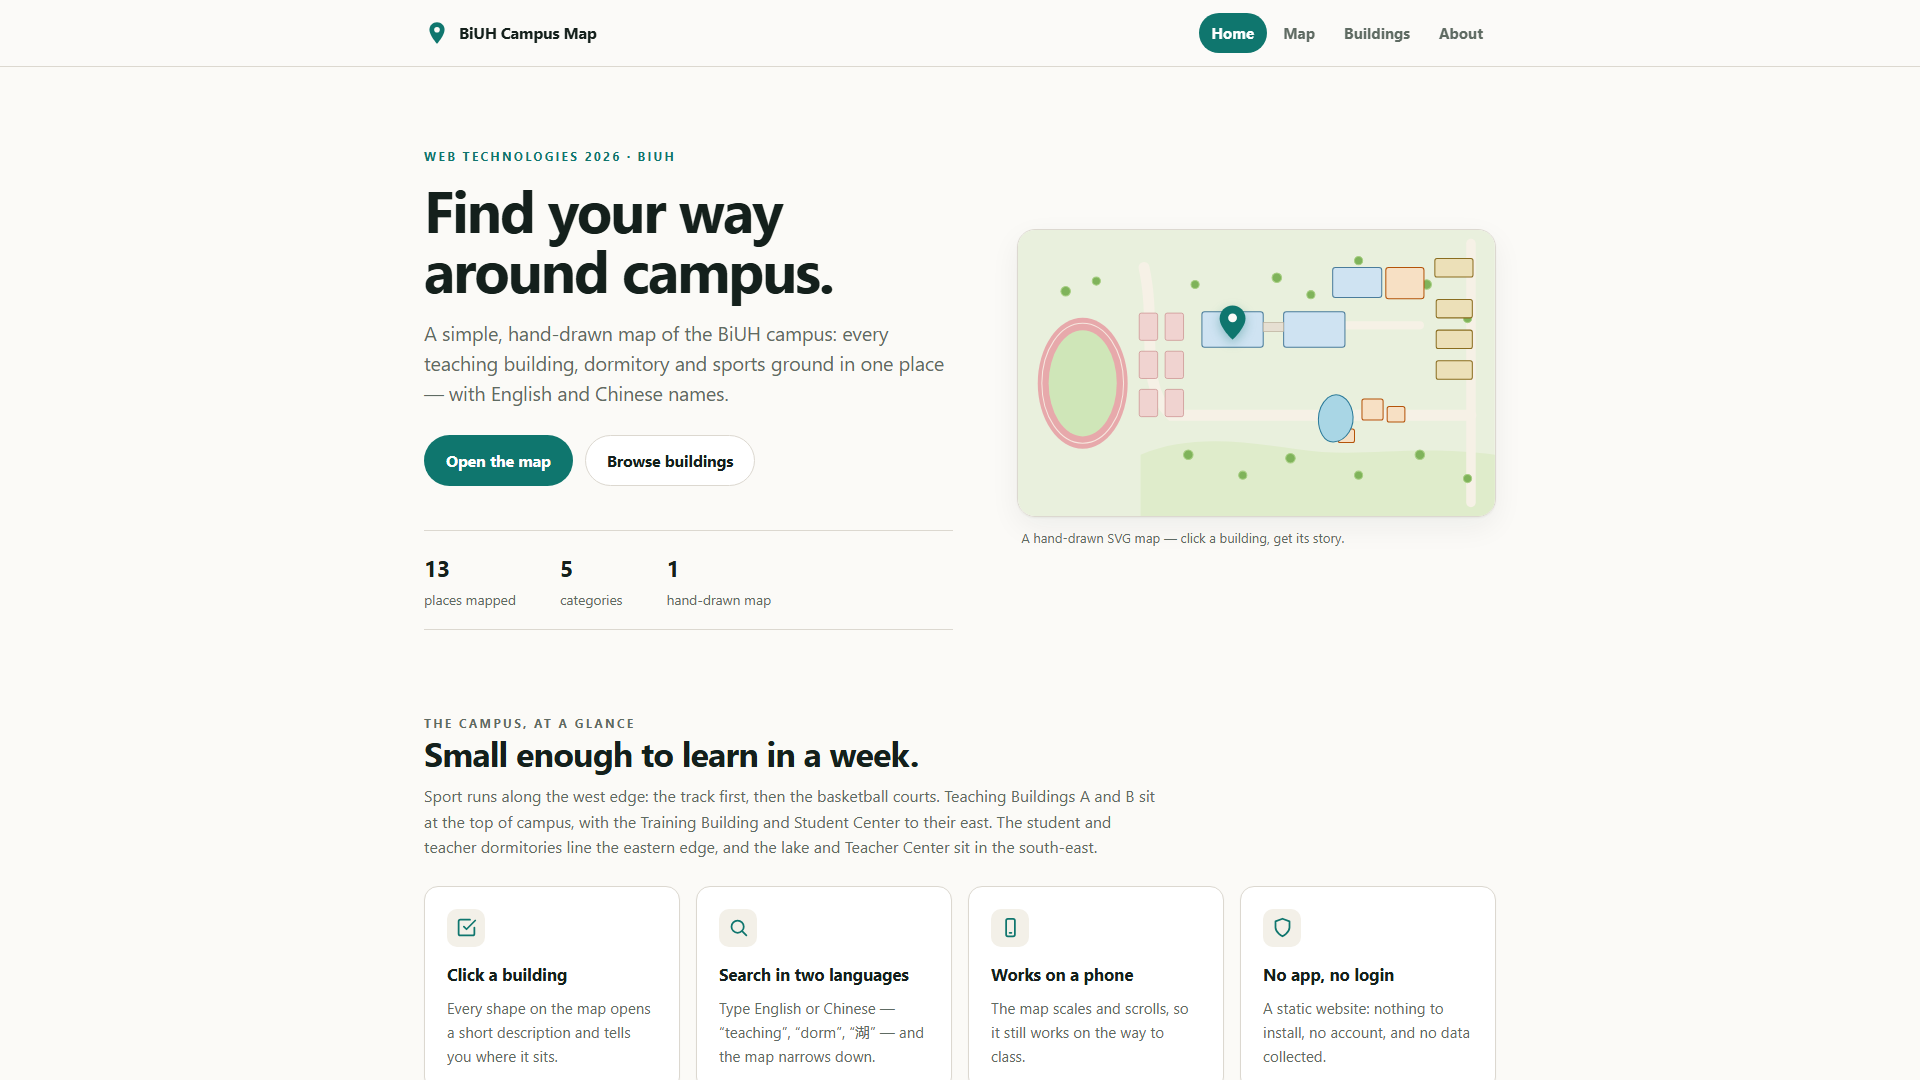
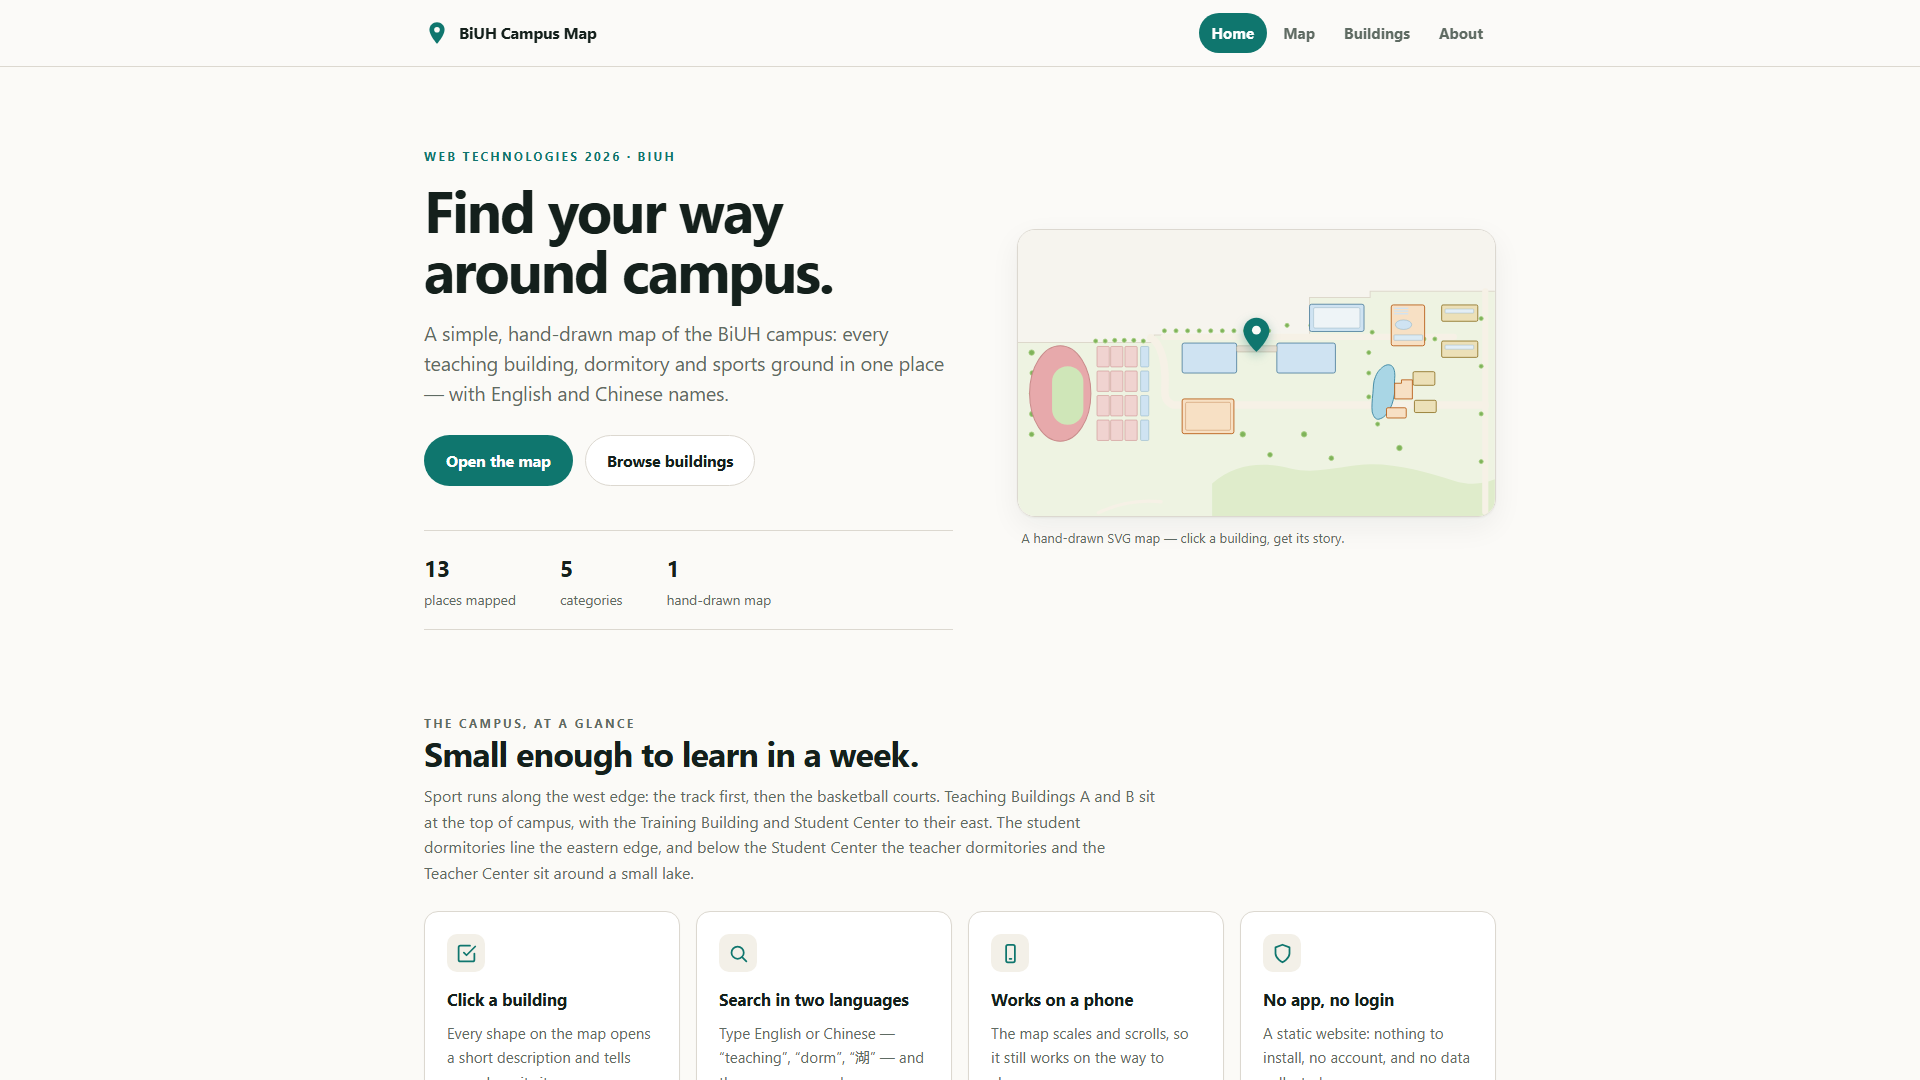
Match the home preview to the redrawn map
The hero illustration still showed the old layout, with the teacher
dormitories on the eastern edge. Redraw it at the same scale and
arrangement as the map page, and regenerate the screenshots with
device emulation so the mobile captures are the real 375 px layout.

diff --git a/index.html b/index.html
@@ -60,67 +60,124 @@
 
       <div class="hero-map">
         <svg viewBox="0 0 700 420" aria-hidden="true" focusable="false">
-          <rect width="700" height="420" fill="#e9f0dd"/>
-          <path d="M180 420V330C250 300 330 310 410 322C500 336 580 314 700 330V420Z" fill="#dfeccb"/>
+          <rect width="700" height="420" fill="#f6f4ee"/>
+          <path d="M0 165H200V154H428V99H517V90H700V420H0Z" fill="#eef3e2"/>
+          <path d="M0 165H200V154H428V99H517V90H700" fill="none" stroke="#ddd8cb" stroke-width="1.5"/>
+          <path d="M285 420V372C320 342 360 340 400 350C440 360 480 344 520 344C560 344 600 356 640 368C665 376 685 372 700 366V420Z" fill="#dfeccb"/>
 
           <g fill="none" stroke="#f6f1e6" stroke-linecap="round">
-            <path d="M185 55C205 145 175 225 225 272L665 272" stroke-width="16"/>
-            <path d="M665 20V400" stroke-width="14"/>
-            <path d="M430 140H590" stroke-width="12"/>
+            <path d="M195 158C212 168 216 200 216 218C216 240 212 250 228 257H686" stroke-width="11"/>
+            <path d="M214 157H640" stroke-width="9"/>
+            <path d="M686 90V414" stroke-width="9"/>
+            <path d="M118 415C150 400 180 396 210 399" stroke-width="5"/>
           </g>
 
           <g aria-hidden="true">
-            <circle cx="70" cy="90" r="7" fill="#7fb35a" stroke="#a8cf83" stroke-width="1.5"/>
-            <circle cx="115" cy="75" r="6" fill="#7fb35a" stroke="#a8cf83" stroke-width="1.5"/>
-            <circle cx="260" cy="80" r="6" fill="#7fb35a" stroke="#a8cf83" stroke-width="1.5"/>
-            <circle cx="380" cy="70" r="7" fill="#7fb35a" stroke="#a8cf83" stroke-width="1.5"/>
-            <circle cx="430" cy="95" r="6" fill="#7fb35a" stroke="#a8cf83" stroke-width="1.5"/>
-            <circle cx="500" cy="45" r="6" fill="#7fb35a" stroke="#a8cf83" stroke-width="1.5"/>
-            <circle cx="600" cy="80" r="7" fill="#7fb35a" stroke="#a8cf83" stroke-width="1.5"/>
-            <circle cx="660" cy="130" r="6" fill="#7fb35a" stroke="#a8cf83" stroke-width="1.5"/>
-            <circle cx="250" cy="330" r="7" fill="#7fb35a" stroke="#a8cf83" stroke-width="1.5"/>
-            <circle cx="330" cy="360" r="6" fill="#7fb35a" stroke="#a8cf83" stroke-width="1.5"/>
-            <circle cx="400" cy="335" r="7" fill="#7fb35a" stroke="#a8cf83" stroke-width="1.5"/>
-            <circle cx="500" cy="360" r="6" fill="#7fb35a" stroke="#a8cf83" stroke-width="1.5"/>
-            <circle cx="590" cy="330" r="7" fill="#7fb35a" stroke="#a8cf83" stroke-width="1.5"/>
-            <circle cx="660" cy="365" r="6" fill="#7fb35a" stroke="#a8cf83" stroke-width="1.5"/>
+            <circle cx="20" cy="180" r="4" fill="#7fb35a" stroke="#a8cf83" stroke-width="1.2"/>
+            <circle cx="21" cy="210" r="3.5" fill="#7fb35a" stroke="#a8cf83" stroke-width="1.2"/>
+            <circle cx="20" cy="240" r="3.5" fill="#7fb35a" stroke="#a8cf83" stroke-width="1.2"/>
+            <circle cx="21" cy="270" r="4" fill="#7fb35a" stroke="#a8cf83" stroke-width="1.2"/>
+            <circle cx="20" cy="300" r="3.5" fill="#7fb35a" stroke="#a8cf83" stroke-width="1.2"/>
+            <circle cx="114" cy="163" r="3" fill="#7fb35a" stroke="#a8cf83" stroke-width="1.2"/>
+            <circle cx="128" cy="163" r="3" fill="#7fb35a" stroke="#a8cf83" stroke-width="1.2"/>
+            <circle cx="142" cy="162" r="3" fill="#7fb35a" stroke="#a8cf83" stroke-width="1.2"/>
+            <circle cx="156" cy="162" r="3" fill="#7fb35a" stroke="#a8cf83" stroke-width="1.2"/>
+            <circle cx="170" cy="162" r="3" fill="#7fb35a" stroke="#a8cf83" stroke-width="1.2"/>
+            <circle cx="184" cy="163" r="3" fill="#7fb35a" stroke="#a8cf83" stroke-width="1.2"/>
+            <circle cx="215" cy="148" r="3" fill="#7fb35a" stroke="#a8cf83" stroke-width="1.2"/>
+            <circle cx="232" cy="148" r="3" fill="#7fb35a" stroke="#a8cf83" stroke-width="1.2"/>
+            <circle cx="249" cy="148" r="3" fill="#7fb35a" stroke="#a8cf83" stroke-width="1.2"/>
+            <circle cx="266" cy="148" r="3" fill="#7fb35a" stroke="#a8cf83" stroke-width="1.2"/>
+            <circle cx="283" cy="148" r="3" fill="#7fb35a" stroke="#a8cf83" stroke-width="1.2"/>
+            <circle cx="300" cy="148" r="3" fill="#7fb35a" stroke="#a8cf83" stroke-width="1.2"/>
+            <circle cx="317" cy="148" r="3" fill="#7fb35a" stroke="#a8cf83" stroke-width="1.2"/>
+            <circle cx="334" cy="148" r="3" fill="#7fb35a" stroke="#a8cf83" stroke-width="1.2"/>
+            <circle cx="351" cy="148" r="3" fill="#7fb35a" stroke="#a8cf83" stroke-width="1.2"/>
+            <circle cx="368" cy="148" r="3" fill="#7fb35a" stroke="#a8cf83" stroke-width="1.2"/>
+            <circle cx="395" cy="140" r="3" fill="#7fb35a" stroke="#a8cf83" stroke-width="1.2"/>
+            <circle cx="430" cy="140" r="3" fill="#7fb35a" stroke="#a8cf83" stroke-width="1.2"/>
+            <circle cx="465" cy="145" r="3" fill="#7fb35a" stroke="#a8cf83" stroke-width="1.2"/>
+            <circle cx="520" cy="150" r="3" fill="#7fb35a" stroke="#a8cf83" stroke-width="1.2"/>
+            <circle cx="596" cy="160" r="3" fill="#7fb35a" stroke="#a8cf83" stroke-width="1.2"/>
+            <circle cx="612" cy="160" r="3" fill="#7fb35a" stroke="#a8cf83" stroke-width="1.2"/>
+            <circle cx="515" cy="180" r="3" fill="#7fb35a" stroke="#a8cf83" stroke-width="1.2"/>
+            <circle cx="515" cy="210" r="3" fill="#7fb35a" stroke="#a8cf83" stroke-width="1.2"/>
+            <circle cx="515" cy="245" r="3" fill="#7fb35a" stroke="#a8cf83" stroke-width="1.2"/>
+            <circle cx="528" cy="285" r="3" fill="#7fb35a" stroke="#a8cf83" stroke-width="1.2"/>
+            <circle cx="330" cy="300" r="4" fill="#7fb35a" stroke="#a8cf83" stroke-width="1.2"/>
+            <circle cx="370" cy="330" r="3.5" fill="#7fb35a" stroke="#a8cf83" stroke-width="1.2"/>
+            <circle cx="420" cy="300" r="4" fill="#7fb35a" stroke="#a8cf83" stroke-width="1.2"/>
+            <circle cx="460" cy="335" r="3.5" fill="#7fb35a" stroke="#a8cf83" stroke-width="1.2"/>
+            <circle cx="560" cy="320" r="4" fill="#7fb35a" stroke="#a8cf83" stroke-width="1.2"/>
+            <circle cx="680" cy="130" r="3" fill="#7fb35a" stroke="#a8cf83" stroke-width="1.2"/>
+            <circle cx="680" cy="200" r="3" fill="#7fb35a" stroke="#a8cf83" stroke-width="1.2"/>
+            <circle cx="680" cy="270" r="3" fill="#7fb35a" stroke="#a8cf83" stroke-width="1.2"/>
+            <circle cx="680" cy="340" r="3" fill="#7fb35a" stroke="#a8cf83" stroke-width="1.2"/>
           </g>
 
-          <ellipse cx="95" cy="225" rx="66" ry="96" fill="#e7a9ab"/>
-          <ellipse cx="95" cy="225" rx="50" ry="78" fill="#cfe6b8"/>
-          <ellipse cx="95" cy="225" rx="60" ry="88" fill="none" stroke="#f6e7df" stroke-width="1.5"/>
+          <!-- sports field -->
+          <ellipse cx="62" cy="240" rx="45" ry="70" fill="#e7a9ab" stroke="#c98b8b" stroke-width="1.5"/>
+          <rect x="50" y="200" width="46" height="86" rx="23" fill="#cfe6b8"/>
 
-          <g fill="#f0d3d0" stroke="#c98b8b" stroke-width="1">
-            <rect x="178" y="122" width="27" height="40" rx="3"/>
-            <rect x="216" y="122" width="27" height="40" rx="3"/>
-            <rect x="178" y="178" width="27" height="40" rx="3"/>
-            <rect x="216" y="178" width="27" height="40" rx="3"/>
-            <rect x="178" y="234" width="27" height="40" rx="3"/>
-            <rect x="216" y="234" width="27" height="40" rx="3"/>
+          <!-- basketball courts -->
+          <g fill="#f0d3d0" stroke="#c98b8b" stroke-width="0.8">
+            <rect x="116" y="171" width="18" height="30" rx="1.5"/>
+            <rect x="136" y="171" width="18" height="30" rx="1.5"/>
+            <rect x="157" y="171" width="18" height="30" rx="1.5"/>
+            <rect x="116" y="207" width="18" height="30" rx="1.5"/>
+            <rect x="136" y="207" width="18" height="30" rx="1.5"/>
+            <rect x="157" y="207" width="18" height="30" rx="1.5"/>
+            <rect x="116" y="243" width="18" height="30" rx="1.5"/>
+            <rect x="136" y="243" width="18" height="30" rx="1.5"/>
+            <rect x="157" y="243" width="18" height="30" rx="1.5"/>
+            <rect x="116" y="279" width="18" height="30" rx="1.5"/>
+            <rect x="136" y="279" width="18" height="30" rx="1.5"/>
+            <rect x="157" y="279" width="18" height="30" rx="1.5"/>
+          </g>
+          <g fill="#cfe3f2" stroke="#8fb3c8" stroke-width="0.8">
+            <rect x="180" y="171" width="12" height="30" rx="1.5"/>
+            <rect x="180" y="207" width="12" height="30" rx="1.5"/>
+            <rect x="180" y="243" width="12" height="30" rx="1.5"/>
+            <rect x="180" y="279" width="12" height="30" rx="1.5"/>
           </g>
 
-          <rect x="270" y="120" width="90" height="52" rx="4" fill="#cfe3f2" stroke="#4a7c9b" stroke-width="1.5"/>
-          <rect x="390" y="120" width="90" height="52" rx="4" fill="#cfe3f2" stroke="#4a7c9b" stroke-width="1.5"/>
-          <rect x="360" y="136" width="30" height="13" fill="#e6dfd2" stroke="#b9ae99" stroke-width="1"/>
-          <rect x="462" y="55" width="72" height="44" rx="4" fill="#cfe3f2" stroke="#4a7c9b" stroke-width="1.5"/>
-          <rect x="540" y="55" width="56" height="46" rx="4" fill="#f7e0c4" stroke="#b45309" stroke-width="1.5"/>
+          <!-- welcome center -->
+          <rect x="241" y="248" width="76" height="51" rx="3" fill="#f7e0c4" stroke="#b45309" stroke-width="1.2"/>
+          <rect x="246" y="253" width="66" height="41" rx="2" fill="none" stroke="#c98f5e" stroke-width="0.8"/>
 
-          <g fill="#ece0b8" stroke="#8a6d1f" stroke-width="1.5">
-            <rect x="612" y="42" width="56" height="27" rx="3"/>
-            <rect x="614" y="102" width="53" height="27" rx="3"/>
-            <rect x="614" y="147" width="53" height="27" rx="3"/>
-            <rect x="614" y="192" width="53" height="27" rx="3"/>
-          </g>
+          <!-- teaching buildings -->
+          <rect x="241" y="166" width="80" height="44" rx="3" fill="#cfe3f2" stroke="#4a7c9b" stroke-width="1.2"/>
+          <rect x="380" y="166" width="86" height="44" rx="3" fill="#cfe3f2" stroke="#4a7c9b" stroke-width="1.2"/>
+          <rect x="321" y="170" width="59" height="9" rx="2" fill="#e6dfd2" stroke="#b9ae99" stroke-width="0.8"/>
 
-          <g fill="#f7e0c4" stroke="#b45309" stroke-width="1.5">
-            <rect x="505" y="248" width="31" height="31" rx="3"/>
-            <rect x="542" y="259" width="26" height="23" rx="3"/>
-            <rect x="470" y="292" width="24" height="20" rx="3"/>
-          </g>
+          <!-- training building -->
+          <rect x="428" y="109" width="80" height="40" rx="3" fill="#cfe3f2" stroke="#4a7c9b" stroke-width="1.2"/>
+          <rect x="434" y="114" width="68" height="30" rx="2" fill="#eef4f7" stroke="#9db9c8" stroke-width="0.8"/>
 
-          <path d="M455 246C470 236 486 246 491 267C496 290 481 309 465 311C449 313 441 294 441 278C441 264 447 253 455 246Z" fill="#a9d6e5" stroke="#2b7a99" stroke-width="1.5"/>
+          <!-- student center -->
+          <rect x="548" y="110" width="49" height="60" rx="3" fill="#f7e0c4" stroke="#b45309" stroke-width="1.2"/>
+          <rect x="552" y="114" width="21" height="2" fill="#cfe3f2"/>
+          <rect x="552" y="118" width="21" height="2" fill="#cfe3f2"/>
+          <rect x="552" y="122" width="21" height="2" fill="#cfe3f2"/>
+          <ellipse cx="566" cy="139" rx="12" ry="7" fill="#cfe3f2" stroke="#8fb3c8" stroke-width="0.8"/>
+          <rect x="552" y="154" width="42" height="8" rx="1" fill="#dbeaf3" stroke="#9db9c8" stroke-width="0.8"/>
 
-          <g class="hero-pin" transform="translate(315 134)">
+          <!-- student dormitories, eastern edge -->
+          <rect x="622" y="110" width="53" height="24" rx="2" fill="#ece0b8" stroke="#8a6d1f" stroke-width="1.2"/>
+          <rect x="627" y="116" width="42" height="6" rx="1" fill="#e3eef5" stroke="#9db9c8" stroke-width="0.7"/>
+          <rect x="622" y="163" width="53" height="24" rx="2" fill="#ece0b8" stroke="#8a6d1f" stroke-width="1.2"/>
+          <rect x="627" y="169" width="42" height="6" rx="1" fill="#e3eef5" stroke="#9db9c8" stroke-width="0.7"/>
+
+          <!-- lake -->
+          <path d="M542 198C549 197 552 202 553 209C554 215 552 221 553 228C554 237 552 247 549 256C545 266 539 275 532 277C526 280 522 275 520 267C519 259 520 250 521 240C522 232 521 223 525 215C528 207 533 203 537 200C539 199 541 198 542 198Z" fill="#a9d6e5" stroke="#2b7a99" stroke-width="1.2"/>
+
+          <!-- teacher cluster beside the lake -->
+          <rect x="580" y="208" width="32" height="20" rx="2" fill="#ece0b8" stroke="#8a6d1f" stroke-width="1.2"/>
+          <rect x="582" y="250" width="32" height="18" rx="2" fill="#ece0b8" stroke="#8a6d1f" stroke-width="1.2"/>
+          <path d="M553 225H563V220H579V248H553Z" fill="#f7e0c4" stroke="#b45309" stroke-width="1.2"/>
+          <rect x="541" y="261" width="29" height="15" rx="2" fill="#f7e0c4" stroke="#b45309" stroke-width="1.2"/>
+
+          <g class="hero-pin" transform="translate(350 152)">
             <path d="M0 -23C-10.5 -23 -19 -14.5 -19 -4C-19 10 0 27 0 27S19 10 19 -4C19 -14.5 10.5 -23 0 -23Z" fill="#0f766e"/>
             <circle cy="-5" r="6.5" fill="#fbfaf7"/>
           </g>
@@ -134,7 +191,7 @@
     <div class="section-head">
       <p class="kicker">The campus, at a glance</p>
       <h2>Small enough to learn in a week.</h2>
-      <p>Sport runs along the west edge: the track first, then the basketball courts. Teaching Buildings A and B sit at the top of campus, with the Training Building and Student Center to their east. The student and teacher dormitories line the eastern edge, and the lake and Teacher Center sit in the south-east.</p>
+      <p>Sport runs along the west edge: the track first, then the basketball courts. Teaching Buildings A and B sit at the top of campus, with the Training Building and Student Center to their east. The student dormitories line the eastern edge, and below the Student Center the teacher dormitories and the Teacher Center sit around a small lake.</p>
     </div>
 
     <div class="cards">

diff --git a/README.md b/README.md
@@ -30,7 +30,9 @@ campus-map/
 │   └── icon-512.png          source icon, 512 × 512
 ├── screenshots/
 │   ├── desktop-home.png      1920 × 1080 (submission draft)
-│   └── mobile-home.png       375 × 812 (submission draft)
+│   ├── mobile-home.png       375 × 812 (submission draft)
+│   ├── desktop-map.png       1440 × 1000
+│   └── mobile-map.png        375 × 812
 └── README.md
 ```
 
